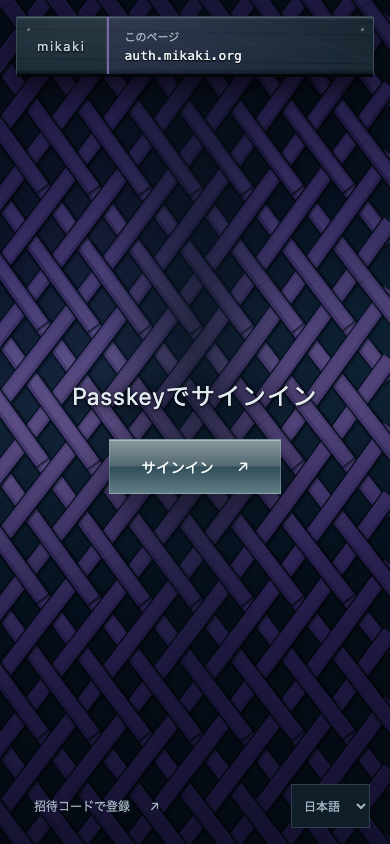
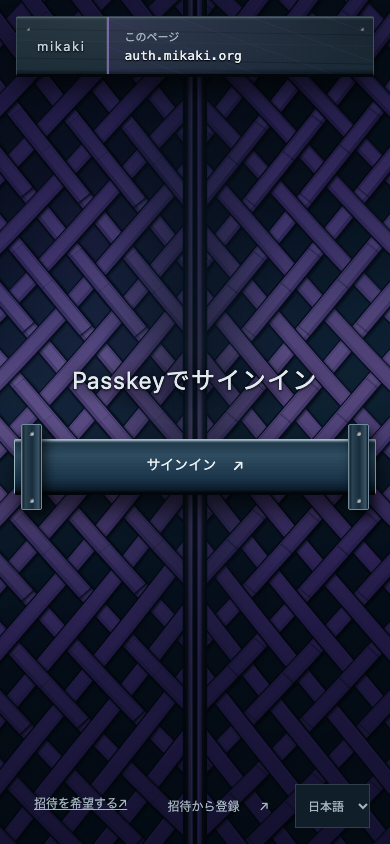
Render a gate on the public Passkey sign-in entry

diff --git a/local/conformance/worker-ui.test.ts b/local/conformance/worker-ui.test.ts
@@ -152,9 +152,14 @@ test('Worker login and Vault mount their Svelte screens in both locales', async 
         return;
       }
       if (url.pathname === '/login') {
+        const rpHost = url.searchParams.has('same-rp')
+          ? url.host
+          : url.searchParams.has('other-rp')
+            ? 'other.example'
+            : 'client.example';
         await route.fulfill({
           contentType: 'text/html; charset=utf-8',
-          body: `<!doctype html><html lang="${locale}"><head><title>mikaki</title><link rel="stylesheet" href="/login/login.css"></head><body><div id="app" data-tx="${'a'.repeat(43)}" data-challenge="${'b'.repeat(43)}" data-rp-id="mikaki.test" data-rp-uri="https://${url.searchParams.has('other-rp') ? 'other.example' : 'client.example'}/callback" data-client="test-rp" data-enrollment="${url.searchParams.has('enroll')}"></div><script type="module" src="/login/login.js"></script></body></html>`,
+          body: `<!doctype html><html lang="${locale}"><head><title>mikaki</title><link rel="stylesheet" href="/login/login.css"></head><body><div id="app" data-tx="${'a'.repeat(43)}" data-challenge="${'b'.repeat(43)}" data-rp-id="mikaki.test" data-rp-uri="https://${rpHost}/callback" data-client="test-rp" data-enrollment="${url.searchParams.has('enroll')}" data-owner-login="${url.searchParams.has('same-rp')}"></div><script type="module" src="/login/login.js"></script></body></html>`,
         });
         return;
       }
@@ -217,6 +222,7 @@ test('Worker login and Vault mount their Svelte screens in both locales', async 
       .evaluate((canvas) => canvas.dispatchEvent(new Event('contextlost')));
     await page.locator('.gate-background[data-renderer="css"]').waitFor();
     assert.equal(await page.locator('#passkey').isEnabled(), true);
+    assert.equal(await page.locator('.gate-fallback span').count(), 2);
     await page.goto('https://mikaki.test/login?other-rp=1');
     await page.getByRole('button', { name: 'Passkeyでサインイン' }).waitFor();
     assert.notEqual(
@@ -233,6 +239,23 @@ test('Worker login and Vault mount their Svelte screens in both locales', async 
         .evaluate((node) => (node as HTMLElement).style.getPropertyValue('--rp-hue')),
       firstStyle,
     );
+    // First-party login still has two leaves when both material profiles are identical.
+    for (const fallback of [false, true]) {
+      await page.goto(`https://mikaki.test/login?same-rp=1${fallback ? '&no-canvas=1' : ''}`);
+      await page.getByRole('button', { name: 'Passkeyでサインイン' }).waitFor();
+      await page
+        .locator(`.gate-background[data-renderer="${fallback ? 'css' : 'canvas'}"]`)
+        .waitFor();
+      assert.equal(await page.locator('.gate-fallback span').count(), 2);
+      assert.equal(await page.locator('.origin strong').nth(1).textContent(), 'mikaki.test');
+      assert.equal(
+        await page.locator('.auth-shell').evaluate((scene) => {
+          const style = (scene as HTMLElement).style;
+          return style.getPropertyValue('--page-hue') === style.getPropertyValue('--rp-hue');
+        }),
+        true,
+      );
+    }
     await page.goto('https://mikaki.test/login?pending-passkey=1');
     await page.locator('.auth-shell[data-paused="true"]').waitFor();
     await page.locator('#passkey').click();
@@ -297,8 +320,11 @@ test('Worker login and Vault mount their Svelte screens in both locales', async 
     await page.goto('https://mikaki.test/?lang=ja');
     await page.getByRole('heading', { name: 'Passkeyでサインイン' }).waitFor();
     await page.locator('.gate-background[data-renderer="canvas"]').waitFor();
-    assert.equal(await page.locator('.gate-fallback span').count(), 1);
-    assert.equal(await page.locator('.bolt, #passkey').count(), 0);
+    assert.equal(await page.locator('.gate-fallback span').count(), 2);
+    assert.equal(await page.locator('.bolt .saddle').count(), 2);
+    assert.equal(await page.locator('.bolt a.passkey').count(), 1);
+    assert.equal(await page.locator('#passkey').count(), 0);
+    await auditAccessibility(page, 'home-signin-ja');
     assert.equal(
       await page.getByRole('link', { name: 'サインイン', exact: true }).getAttribute('href'),
       '/signin?lang=ja',
@@ -320,6 +346,7 @@ test('Worker login and Vault mount their Svelte screens in both locales', async 
     await page.getByRole('heading', { name: 'Sign in with your passkey' }).waitFor();
     await page.locator('.gate-background[data-renderer="canvas"]').waitFor();
     assert.equal(await page.locator('.plate .origin strong').textContent(), 'other.test');
+    assert.equal(await page.locator('.gate-fallback span').count(), 2);
     assert.notEqual(
       await page
         .locator('.auth-shell')
@@ -355,7 +382,14 @@ test('Worker login and Vault mount their Svelte screens in both locales', async 
     await page.goto('https://mikaki.test/?no-canvas=1');
     await page.getByRole('heading', { name: 'Passkeyでサインイン' }).waitFor();
     assert.equal(await page.locator('.gate-background').getAttribute('data-renderer'), 'css');
-    assert.equal(await page.locator('.gate-fallback span').count(), 1);
+    assert.equal(await page.locator('.gate-fallback span').count(), 2);
+    assert.equal(
+      await page
+        .locator('.gate-fallback span')
+        .first()
+        .evaluate((leaf) => getComputedStyle(leaf).borderRightWidth),
+      '9px',
+    );
     assert.deepEqual(errors, []);
     const staticPage = await browser.newPage({
       javaScriptEnabled: false,
@@ -371,8 +405,10 @@ test('Worker login and Vault mount their Svelte screens in both locales', async 
     });
     await staticPage.goto('https://mikaki.test/');
     await staticPage.getByRole('heading', { name: 'Passkeyでサインイン' }).waitFor();
-    assert.equal(await staticPage.locator('.gate-fallback span').count(), 1);
+    assert.equal(await staticPage.locator('.gate-fallback span').count(), 2);
     assert.equal(await staticPage.locator('#passkey, canvas').count(), 0);
+    assert.equal(await staticPage.locator('.bolt .saddle').count(), 2);
+    assert.equal(await staticPage.locator('.bolt a.passkey').count(), 1);
     assert.equal(
       await staticPage.getByRole('link', { name: 'サインイン', exact: true }).getAttribute('href'),
       '/signin?lang=ja',

diff --git a/crates/worker/ui/Home.svelte b/crates/worker/ui/Home.svelte
@@ -22,9 +22,15 @@
   </div>
   <main class="entry home-entry">
     <h1>{m.homeHeading()}</h1>
-    <a class="home-signin" href={`/signin?lang=${locale}`}
-      >{m.homeSignIn()}<span aria-hidden="true">↗</span></a
-    >
+    <div class="bolt">
+      <span class="saddle left" aria-hidden="true"></span><span
+        class="saddle right"
+        aria-hidden="true"
+      ></span>
+      <a class="passkey home-signin" href={`/signin?lang=${locale}`}
+        >{m.homeSignIn()}<span aria-hidden="true">↗</span></a
+      >
+    </div>
   </main>
   <footer>
     <a class="quiet home-waitlist" href={`/waitlist?lang=${locale}`}
@@ -33,7 +39,7 @@
     <a class="quiet home-enroll" href={`/enroll?lang=${locale}`}
       >{m.homeEnroll()}<span aria-hidden="true">↗</span></a
     >
-    <WovenGate pageOrigin={page.origin} rpOrigin={page.origin} paused={false} layout="fence" />
+    <WovenGate pageOrigin={page.origin} rpOrigin={page.origin} paused={false} layout="gate" />
     <select
       class="language"
       aria-label={m.language()}

diff --git a/local/conformance/product-journey.test.ts b/local/conformance/product-journey.test.ts
@@ -246,11 +246,15 @@ test('Rust product journey: invite, real virtual Passkey/PRF, Vault, RP code exc
     });
     await cdp.send('WebAuthn.setAutomaticPresenceSimulation', { authenticatorId, enabled: false });
     await page.goto(`${issuer}/?lang=en`);
+    await expect(page.locator('.gate-fallback span')).toHaveCount(2);
     await page.getByRole('link', { name: 'Sign in', exact: true }).click();
     await expect(
       page.getByRole('link', { name: 'Register with an invitation', exact: true }),
     ).toHaveAttribute('href', '/enroll?lang=en');
     await expect(page.locator('details.registration')).toHaveCount(0);
+    await expect(page.locator('.gate-fallback span')).toHaveCount(2);
+    assert.equal(await page.locator('.origin strong').first().textContent(), new URL(issuer).host);
+    assert.equal(await page.locator('.origin strong').nth(1).textContent(), new URL(issuer).host);
     const pendingTx = new URL(page.url()).searchParams.get('tx')!;
     const unusedInvite = 'i'.repeat(43);
     await DB.prepare(

diff --git a/crates/worker/ui/auth.css b/crates/worker/ui/auth.css
@@ -491,8 +491,8 @@ body {
     0 2px 18px #020810,
     0 1px 3px #020810;
 }
-.home-shell .gate-fallback span {
-  border: 0;
+.home-shell .bolt {
+  margin-top: 1.5rem;
 }
 .home-shell .home-enroll {
   display: inline-flex;
@@ -514,25 +514,10 @@ body {
   }
 }
 
-.home-signin {
-  display: inline-flex;
+.home-shell .home-signin {
+  display: flex;
   align-items: center;
-  gap: 1.5rem;
-  margin-top: 1.5rem;
-  padding: 1rem 2rem;
-  color: #f4f8f7;
+  justify-content: center;
+  gap: 1rem;
   text-decoration: none;
-  border: 1px solid #a8bfc755;
-  background: linear-gradient(180deg, #88999d, #526870 49%, #314d59 51%, #607d86);
-  box-shadow:
-    inset 0 1px #e4f3f270,
-    0 10px 35px #0006;
-  font-size: 0.9rem;
-}
-.home-signin:hover {
-  filter: brightness(1.15);
-}
-.home-signin:focus-visible {
-  outline: 2px solid #def5ef;
-  outline-offset: 5px;
 }

diff --git a/crates/worker/src/home.rs b/crates/worker/src/home.rs
@@ -15,7 +15,7 @@ pub(super) async fn get(
         "日本語"
     };
     let html = format!(
-        r#"<!doctype html><html lang="{locale}"><head><meta charset="utf-8"><meta name="viewport" content="width=device-width, initial-scale=1"><title>mikaki</title><link rel="stylesheet" href="/login/login.css"><link rel="icon" type="image/svg+xml" href="/favicon.svg"></head><body><div id="app" data-page="home"><div class="auth-shell home-shell"><div class="shade" aria-hidden="true"></div><div class="gate-background" aria-hidden="true"><div class="gate-fallback"><span></span></div></div><div class="plate home-plate"><div class="item home-name">mikaki</div><div class="item origin"><span>{page_label}</span><strong>{host}</strong></div></div><main class="entry home-entry"><h1>{heading}</h1><a class="home-signin" href="/signin?lang={locale}">{signin}<span aria-hidden="true">↗</span></a></main><footer><a class="quiet home-waitlist" href="/waitlist?lang={locale}">{waiting}<span aria-hidden="true">↗</span></a><a class="quiet home-enroll" href="/enroll?lang={locale}">{enroll}<span aria-hidden="true">↗</span></a><a class="quiet" href="/?lang={other_locale}" lang="{other_locale}">{other_locale_label}</a></footer></div></div><script type="module" src="/login/login.js"></script></body></html>"#,
+        r#"<!doctype html><html lang="{locale}"><head><meta charset="utf-8"><meta name="viewport" content="width=device-width, initial-scale=1"><title>mikaki</title><link rel="stylesheet" href="/login/login.css"><link rel="icon" type="image/svg+xml" href="/favicon.svg"></head><body><div id="app" data-page="home"><div class="auth-shell home-shell"><div class="shade" aria-hidden="true"></div><div class="gate-background" aria-hidden="true"><div class="gate-fallback"><span></span><span></span></div></div><div class="plate home-plate"><div class="item home-name">mikaki</div><div class="item origin"><span>{page_label}</span><strong>{host}</strong></div></div><main class="entry home-entry"><h1>{heading}</h1><div class="bolt"><span class="saddle left" aria-hidden="true"></span><span class="saddle right" aria-hidden="true"></span><a class="passkey home-signin" href="/signin?lang={locale}">{signin}<span aria-hidden="true">↗</span></a></div></main><footer><a class="quiet home-waitlist" href="/waitlist?lang={locale}">{waiting}<span aria-hidden="true">↗</span></a><a class="quiet home-enroll" href="/enroll?lang={locale}">{enroll}<span aria-hidden="true">↗</span></a><a class="quiet" href="/?lang={other_locale}" lang="{other_locale}">{other_locale_label}</a></footer></div></div><script type="module" src="/login/login.js"></script></body></html>"#,
         locale = strings.locale,
         host = i18n::html_escape(request.url()?.host_str().unwrap_or_default()),
         page_label = message("authOriginLabel"),

diff --git a/docs/home-ui-preview.md b/docs/home-ui-preview.md
@@ -1,12 +1,12 @@
 # Direct issuer entry preview
 
-The `/` page uses a single continuous bamboo fence, with no meeting stiles or split leaves. It reuses the login screen's cached material, pointer/ambient light, optional device tilt and reduced-motion lifecycle. The current page's normalized origin determines the weave/color; the host on the top material plaque uses the same profile. Query parameters and paths do not affect this decorative identity cue.
+The `/` page uses two woven bamboo gate leaves with meeting stiles and a metal crossbar linking to sign-in. Public sign-in entries use a gate even when the OP and destination share an origin; the fence layout is reserved for surfaces without an authentication entry, such as account-page headers. It reuses the login screen's cached material, pointer/ambient light, optional device tilt and reduced-motion lifecycle. The current page's normalized origin determines both leaves' weave/color; the host on the top material plaque uses the same profile. Query parameters and paths do not affect this decorative identity cue.
 
 The plaque identifies the service once, quietly, as `mikaki`. The central Passkey instruction and sign-in link start a first-party Web ceremony at `/signin`; invitation registration and language selection remain at the bottom. Sign-in goes directly to Vault without creating an RP connection or agent authorization. Registration retains the selected language and uses `/enroll`, including from the first-party login screen. The actual page host is shown, rather than a configured or caller-supplied destination. Appearance is not proof of authenticity.
 
 The service name gives context for direct account entry, while the woven material keeps the same origin identity cue as the RP login screen. The Web version requires no native app; native integration is reserved for device-specific capabilities such as identity-document reading.
 
-The server emits the same compact layout with a CSS fence and working sign-in/registration/language links before JavaScript loads. Svelte replaces it with the shared animated fence. Canvas allocation/context failure retains the CSS fence; reduced motion freezes the light. The static fallback uses the default palette, while the live renderer derives its profile from the origin. The response remains `no-store`, `no-referrer`, unframeable and uses self-hosted scripts/styles. Inline styles are permitted for the generated material profile, as on the login screen.
+The server emits the same compact layout with a CSS gate and working sign-in/registration/language links before JavaScript loads. Svelte replaces it with the shared animated gate. Canvas allocation/context failure retains the CSS gate; reduced motion freezes the light. The static fallback uses the default palette, while the live renderer derives its profile from the origin. The response remains `no-store`, `no-referrer`, unframeable and uses self-hosted scripts/styles. Inline styles are permitted for the generated material profile, as on the login screen.
 
 | View | Capture |
 | --- | --- |

diff --git a/docs/login-ui-preview.md b/docs/login-ui-preview.md
@@ -28,4 +28,4 @@ The shared woven-fence logo introduced by PR #34 remains in the native icons, fa
 
 Login-only rules are scoped to `.auth-shell`. Shared typography, box sizing and brand sizing live in `product.css`, so the Vault, completion and logout pages retain their layouts.
 
-The direct `/` entry uses the same material and lighting as a single fence; see [direct issuer preview](home-ui-preview.md).
+The direct `/` entry uses the same gate material, lighting and crossbar sign-in entry. Matching OP and destination origins give both leaves the same material without removing the gate's meeting line; see [direct issuer preview](home-ui-preview.md).
